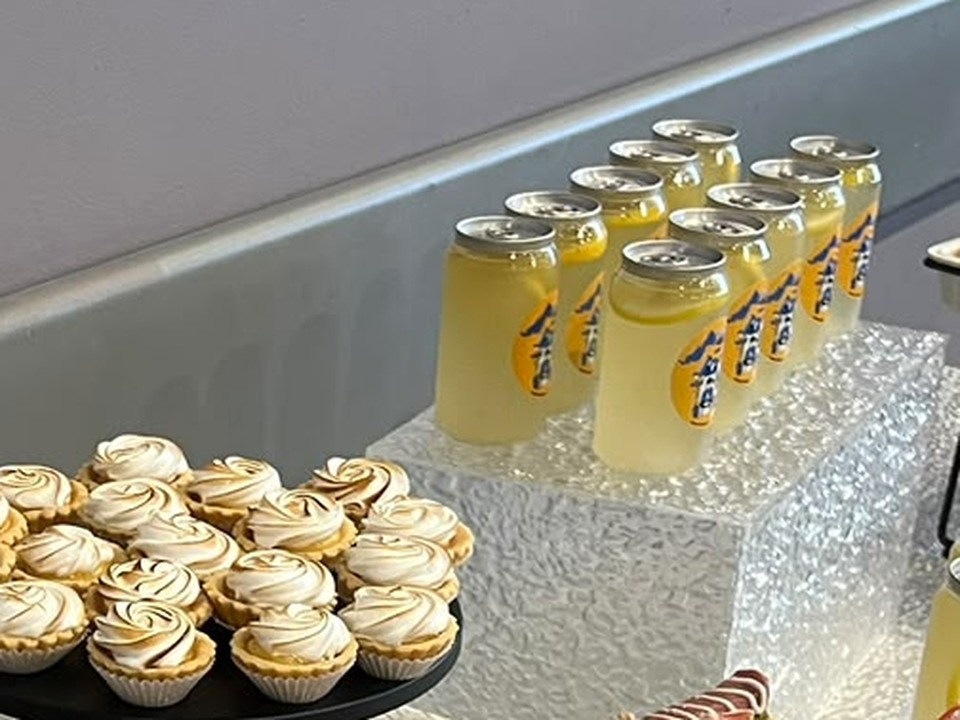
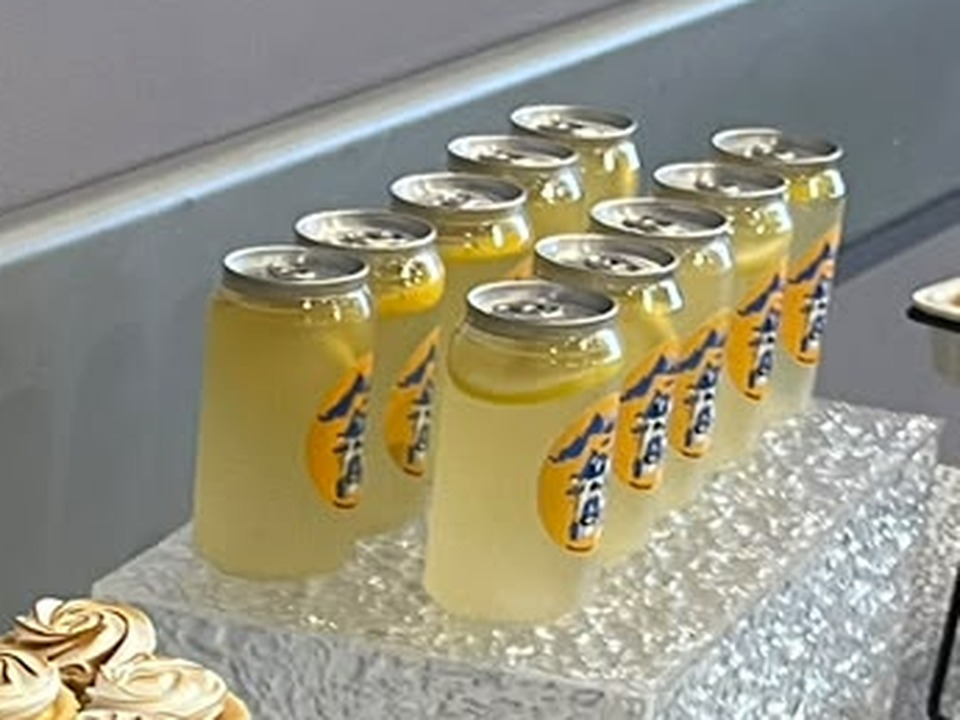
Zoom ChaJo photo on drinks

diff --git a/index.html b/index.html
@@ -583,7 +583,7 @@ a.btn-wa,a.btn-wa span,a.header-wa,a.header-wa span,a.fab-wa{color:#fff !importa
         <div class="plab">Drinks</div>
         <div class="pname">ChaJo</div>
         <p class="pdesc">Drinks for your event. Menu and pricing on request.</p>
-        <img class="photo" src="assets/img/chajo.jpg?v=9" width="1200" height="900" alt="ChaJo lemon drinks at an event">
+        <img class="photo" src="assets/img/chajo.jpg?v=10" width="1200" height="900" alt="ChaJo lemon drinks at an event">
       </article>
       <article class="partner">
         <div class="plab">Pastries</div>
